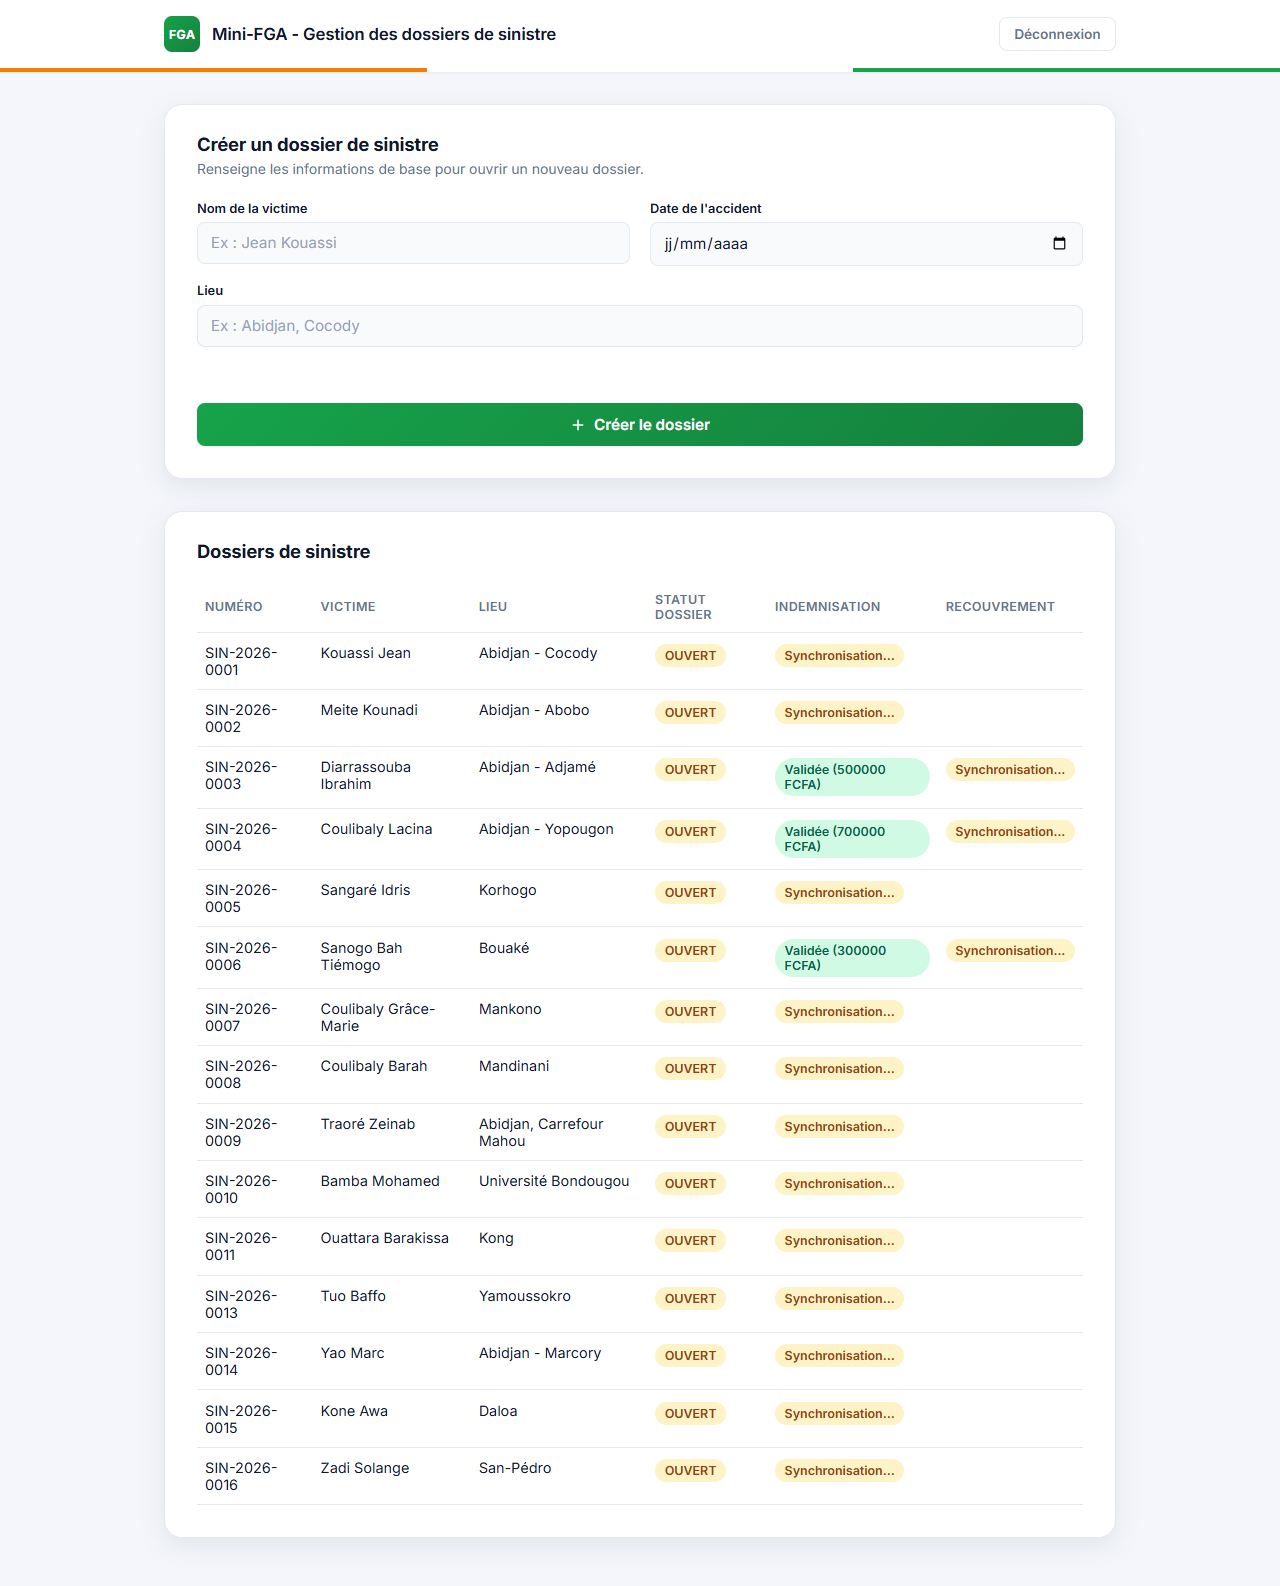
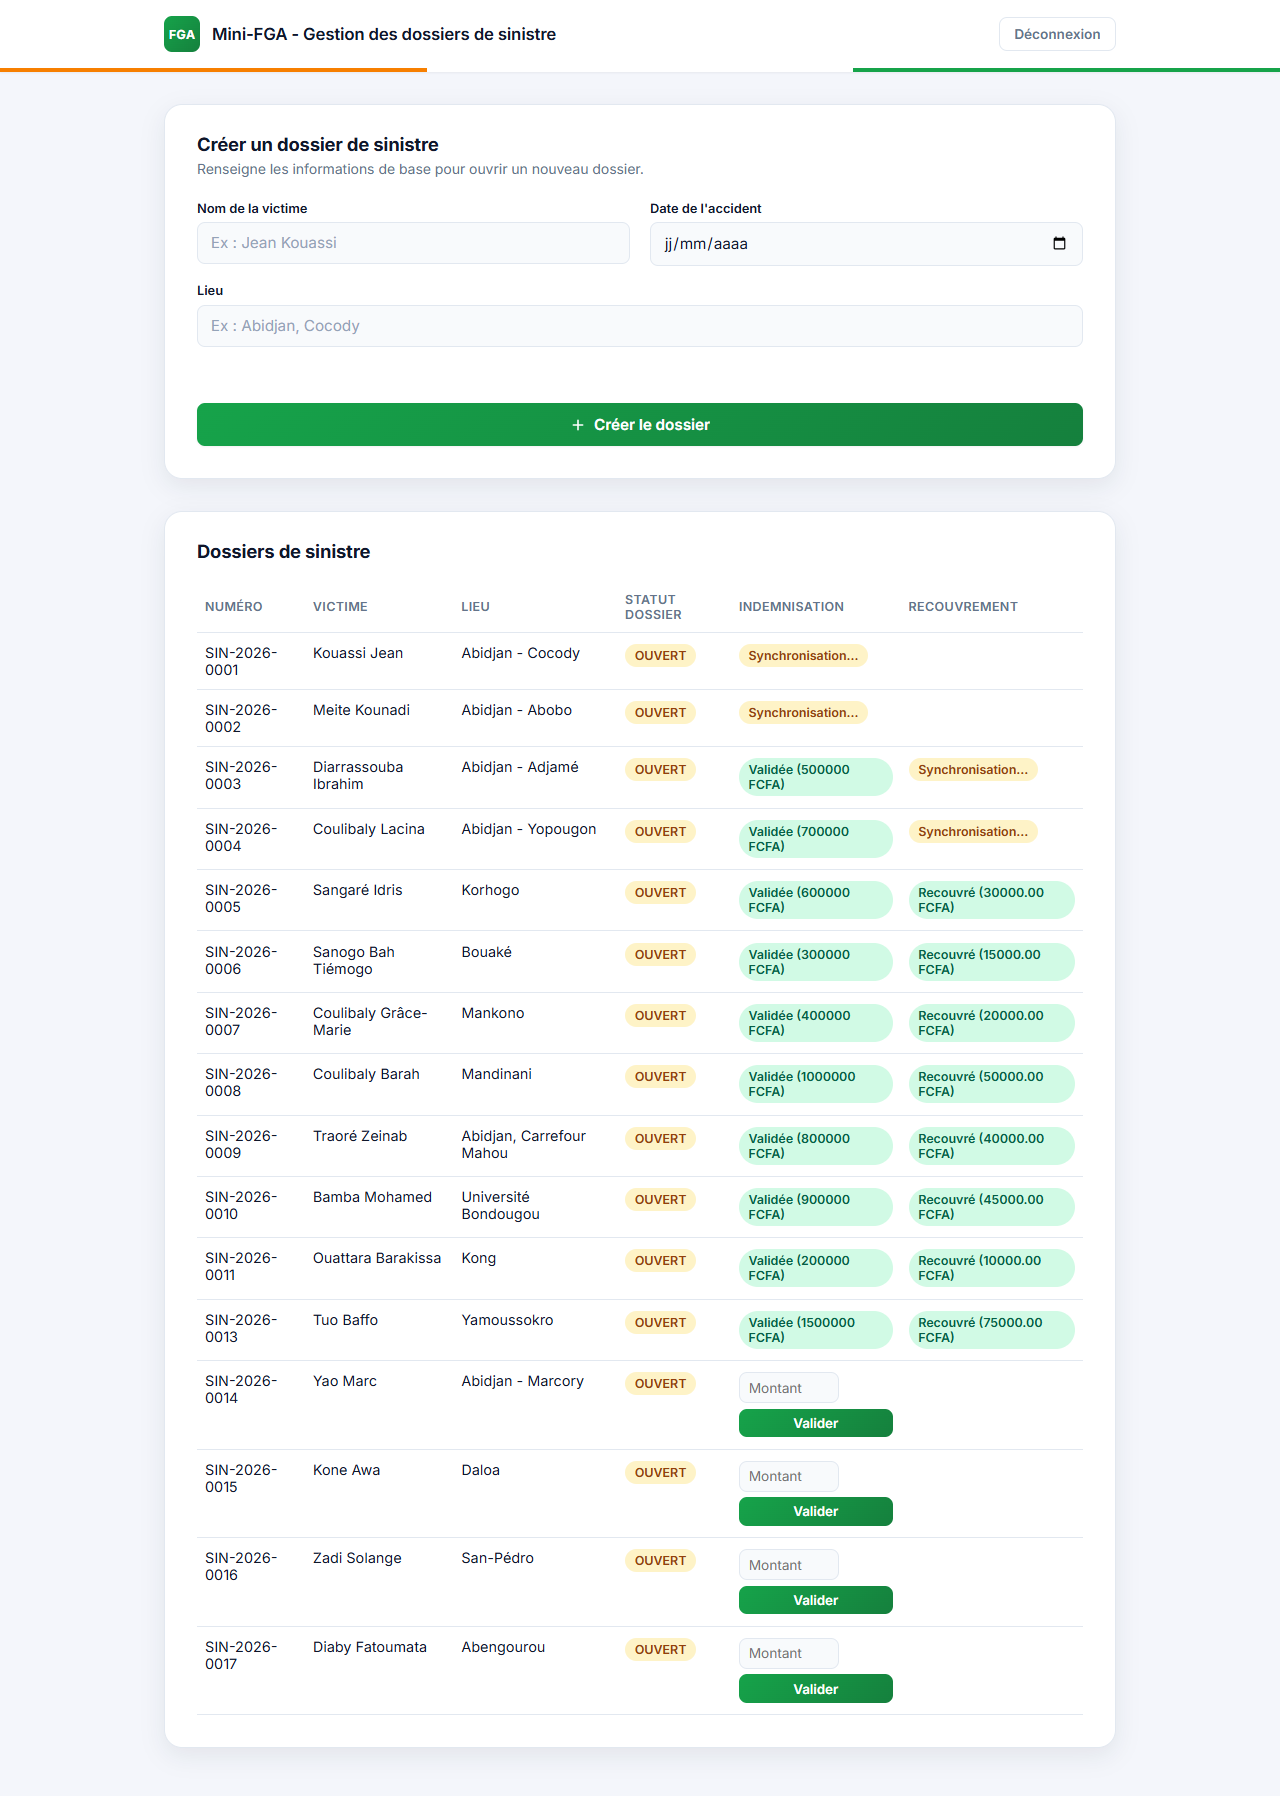
Ajoute le libelle "Recouvre" et rafraichit la capture d'accueil
La capture precedente montrait "Synchronisation..." partout car le
navigateur avait capture avant que les appels reseau (indemnisation +
recouvrement, un par ligne) n'aient fini de repondre. Elle montre
maintenant les vrais montants de recouvrement (5% de l'indemnisation),
avec un libelle explicite au lieu du montant brut.

Changed region(s): [[0.0, 0.0, 0.8438, 0.9578], [0.6562, 0.0, 1.0, 0.0618]]

diff --git a/dossier-frontend/src/app/components/dossier-list/dossier-list.component.html b/dossier-frontend/src/app/components/dossier-list/dossier-list.component.html
@@ -74,7 +74,7 @@
           <ng-container *ngIf="indemnisationDe(dossier)?.statut === 'VALIDEE'">
             <span *ngIf="recouvrementDe(indemnisationDe(dossier)!); else enAttenteRecouvrement"
                   class="badge badge-validee">
-              {{ recouvrementDe(indemnisationDe(dossier)!)?.contribution_recouvree }} FCFA
+              Recouvré ({{ recouvrementDe(indemnisationDe(dossier)!)?.contribution_recouvree }} FCFA)
             </span>
             <!-- ng-template est une balise spéciale Angular qui permet de définir un bloc de code HTML qui ne sera pas rendu immédiatement,
             mais seulement lorsqu'il est référencé par un *ngIf ou un autre mécanisme. -->
